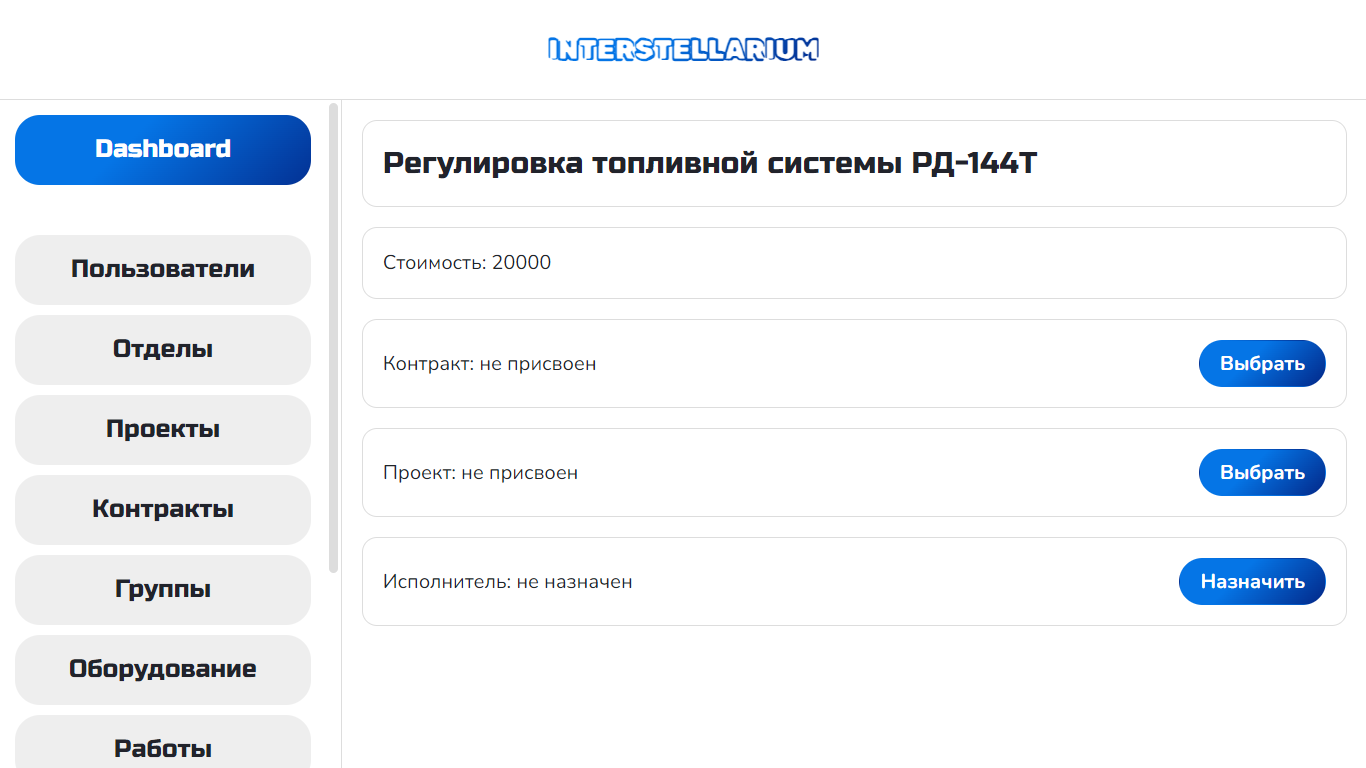
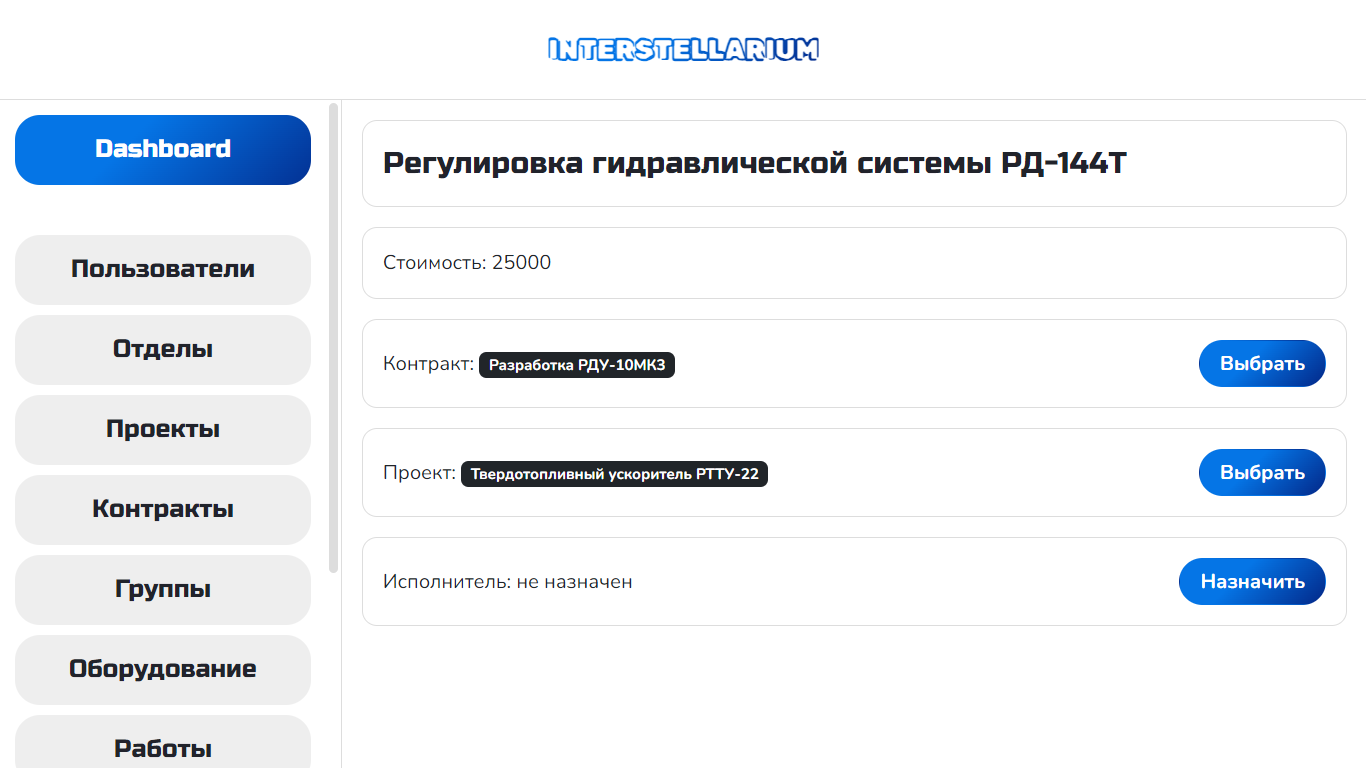
Update README.md

Changed region(s): [[0.4305, 0.1875, 0.8302, 0.25], [0.3382, 0.5938, 0.5842, 0.6562], [0.3382, 0.4375, 0.4919, 0.5]]

diff --git a/README.md b/README.md
@@ -76,6 +76,8 @@
 ![Create Work](./docs/resources/desktop/create-work.png "Create Work")
 ## Work Profile page
 ![Work Profile](./docs/resources/desktop/work-profile.png "Work Profile")
+## Work Profile: Choose Contract
+![Work Profile: Choose Contract](./docs/resources/desktop/work-profile-choose-contract.png "Work Profile: Choose Contract")
 
 ## Equipment page
 ![Equipment](./docs/resources/desktop/equipment.png "Equipment")
